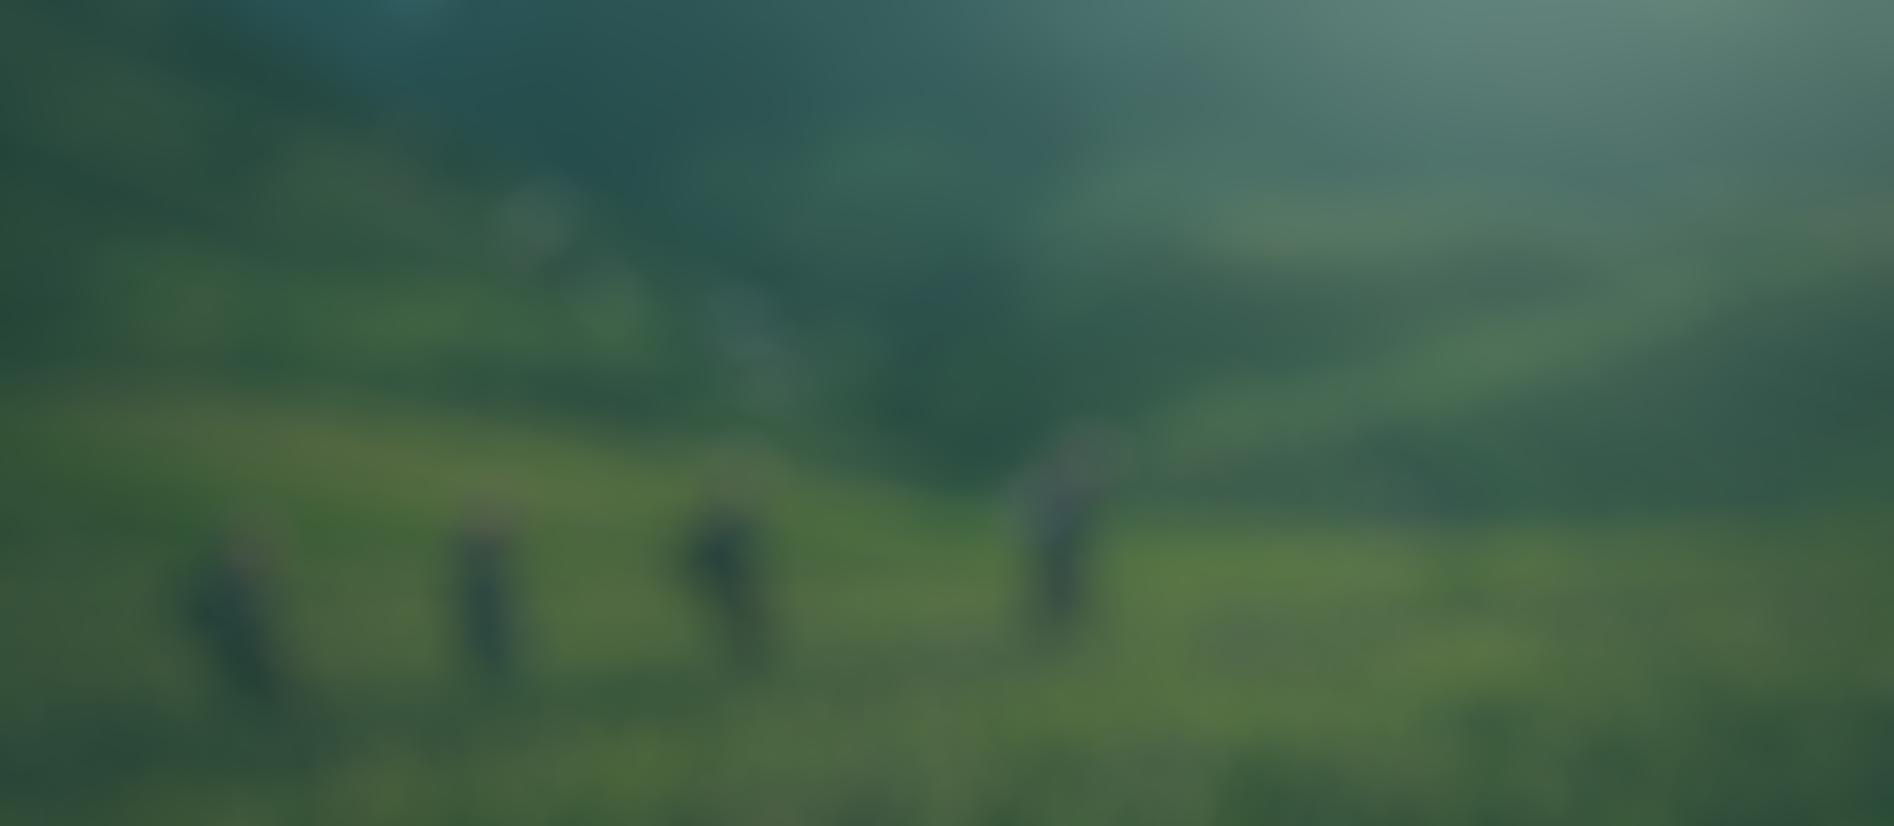
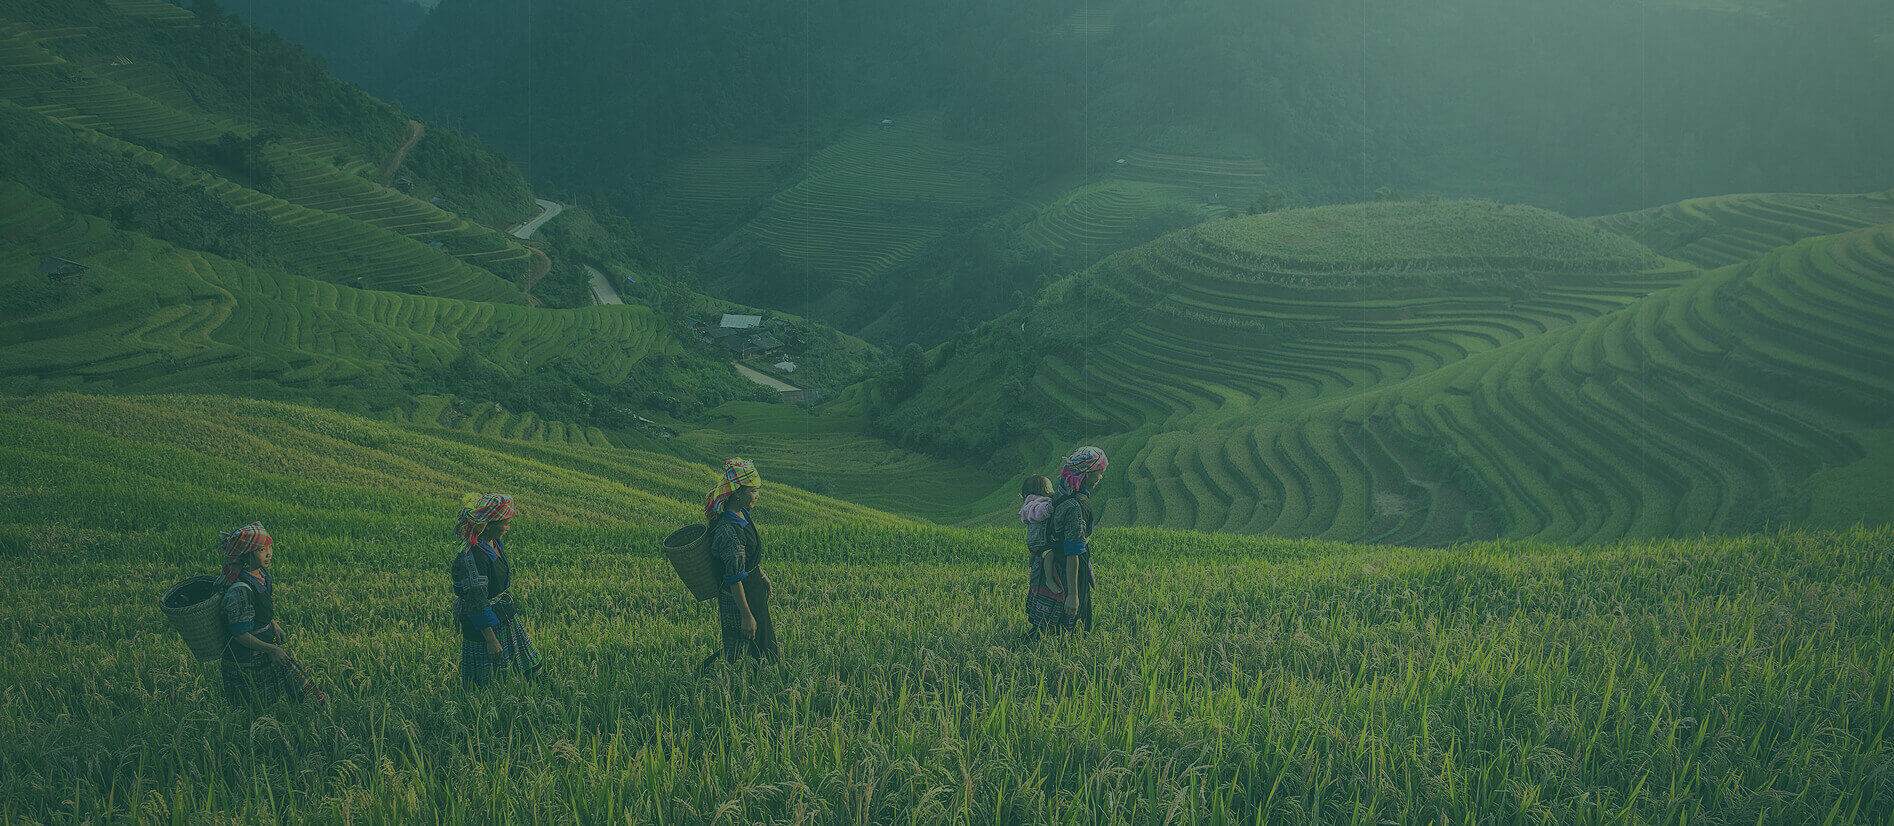
add images

diff --git a/index.html b/index.html
@@ -51,7 +51,7 @@
                         <p>Welcome to Agri Trust Collaborative Community</p>
                     </div><!-- /.topbar__left -->
                     <div class="topbar__right">
-                        <a href="#"><i class="agrikon-icon-email"></i>needhelp@company.com</a>
+                        <a href="#"><i class="agrikon-icon-email"></i>info@agritrustcoop.com</a>
                         <a href="#"><i class="agrikon-icon-clock"></i>Mon - Sat 8:00 - 6:30, Sunday - CLOSED</a>
                     </div><!-- /.topbar__right -->
                 </div><!-- /.container -->
@@ -110,7 +110,7 @@
     }'>
                 <div class="swiper-wrapper">
                     <div class="swiper-slide">
-                        <div class="image-layer" style="background-image: url(assets/images/main-slider/main-slider-1-1.jpg);">
+                        <div class="image-layer" style="background-image: url(assets/images/main-slider/main-slider-1-2.jpg);">
                         </div>
                         <!-- /.image-layer -->
                         <div class="container">
@@ -127,7 +127,7 @@
                         </div><!-- /.container -->
                     </div><!-- /.swiper-slide -->
                     <div class="swiper-slide">
-                        <div class="image-layer" style="background-image: url(assets/images/main-slider/main-slider-1-2.jpg);">
+                        <div class="image-layer" style="background-image: url(assets/images/main-slider/pruning.jpg);">
                         </div>
                         <!-- /.image-layer -->
                         <div class="container">
@@ -308,7 +308,7 @@
         </section><!-- /.service-two -->
 
         <section class="call-to-action__three jarallax" data-jarallax data-speed="0.3" data-imgPosition="50% 50%">
-            <img class="call-to-action__three__bg jarallax-img" src="assets/images/backgrounds/cta-1-bg-1.jpg" alt="parallax-image" />
+            <img class="call-to-action__three__bg jarallax-img" src="assets/images/backgrounds/field.jpg" alt="parallax-image" />
             <div class="container">
                 <div class="row">
                     <div class="col-lg-5 wow fadeInLeft" data-wow-duration="1500ms">
@@ -327,192 +327,7 @@
                 </div><!-- /.row -->
             </div><!-- /.container -->
         </section><!-- /.call-to-action__three -->
-
-        <section class="testimonials-one">
-            <img src="assets/images/icons/testimonials-bg-1-1.png" class="testimonials-one__bg" alt="">
-            <div class="container">
-                <h2 class="testimonials-one__title">Testimonials</h2>
-                <div id="testimonials-one__carousel" class="testimonials-one__carousel swiper-container">
-                    <div class="swiper-wrapper">
-                        <div class="swiper-slide">
-                            <div class="testimonials-one__icons">
-                                <i class="fas fa-star"></i>
-                                <i class="fas fa-star"></i>
-                                <i class="fas fa-star"></i>
-                                <i class="fas fa-star"></i>
-                                <i class="fas fa-star"></i>
-                            </div><!-- /.testimonials-one__icons -->
-                            <p>This is due to their excellent service, competitive pricing and customer support. It’s throughly
-                                refresing to get such a personal touch. Duis aute lorem ipsum is simply free text irure dolor in
-                                reprehenderit in esse nulla pariatur.</p>
-                        </div><!-- /.swiper-slide -->
-                        <div class="swiper-slide">
-                            <div class="testimonials-one__icons">
-                                <i class="fas fa-star"></i>
-                                <i class="fas fa-star"></i>
-                                <i class="fas fa-star"></i>
-                                <i class="fas fa-star"></i>
-                                <i class="fas fa-star"></i>
-                            </div><!-- /.testimonials-one__icons -->
-                            <p>This is due to their excellent service, competitive pricing and customer support. It’s throughly
-                                refresing to get such a personal touch. Duis aute lorem ipsum is simply free text irure dolor in
-                                reprehenderit in esse nulla pariatur.</p>
-                        </div><!-- /.swiper-slide -->
-                        <div class="swiper-slide">
-                            <div class="testimonials-one__icons">
-                                <i class="fas fa-star"></i>
-                                <i class="fas fa-star"></i>
-                                <i class="fas fa-star"></i>
-                                <i class="fas fa-star"></i>
-                                <i class="fas fa-star"></i>
-                            </div><!-- /.testimonials-one__icons -->
-                            <p>This is due to their excellent service, competitive pricing and customer support. It’s throughly
-                                refresing to get such a personal touch. Duis aute lorem ipsum is simply free text irure dolor in
-                                reprehenderit in esse nulla pariatur.</p>
-                        </div><!-- /.swiper-slide -->
-                    </div><!-- /.swiper-wrapper -->
-                </div><!-- /#testimonials-one__carousel -->
-
-                <div id="testimonials-one__thumb" class="swiper-container">
-                    <div class="swiper-wrapper">
-                        <div class="swiper-slide">
-                            <div class="testimonials-one__image">
-                                <img src="assets/images/resources/testimonials-1-1.jpg" alt="">
-                            </div><!-- /.testimonials-one__image -->
-                        </div><!-- /.swiper-slide -->
-                        <div class="swiper-slide">
-                            <div class="testimonials-one__image">
-                                <img src="assets/images/resources/testimonials-1-2.jpg" alt="">
-                            </div><!-- /.testimonials-one__image -->
-                        </div><!-- /.swiper-slide -->
-                        <div class="swiper-slide">
-                            <div class="testimonials-one__image">
-                                <img src="assets/images/resources/testimonials-1-3.jpg" alt="">
-                            </div><!-- /.testimonials-one__image -->
-                        </div><!-- /.swiper-slide -->
-                    </div><!-- /.swiper-wrapper -->
-                </div><!-- /#testimonials-one__thumb.swiper-container -->
-
-                <div id="testimonials-one__meta" class="testimonials-one__carousel swiper-container">
-                    <div class="swiper-wrapper">
-                        <div class="swiper-slide">
-                            <div class="testimonials-one__meta">
-                                <h4>Jessica Brown</h4>
-                                <span>Customer</span>
-                            </div><!-- /.testimonials-one__meta -->
-                        </div><!-- /.swiper-slide -->
-                        <div class="swiper-slide">
-                            <div class="testimonials-one__meta">
-                                <h4>Caleb Hoffman</h4>
-                                <span>Customer</span>
-                            </div><!-- /.testimonials-one__meta -->
-                        </div><!-- /.swiper-slide -->
-                        <div class="swiper-slide">
-                            <div class="testimonials-one__meta">
-                                <h4>Bradley Kim</h4>
-                                <span>Customer</span>
-                            </div><!-- /.testimonials-one__meta -->
-                        </div><!-- /.swiper-slide -->
-                    </div><!-- /.swiper-wrapper -->
-                </div><!-- /#testimonials-one__meta.swiper-container -->
-                <div class="swiper-pagination" id="testimonials-one__swiper-pagination"></div>
-            </div><!-- /.container -->
-        </section><!-- /.testimonials-one -->
-
-
-        <div class="client-carousel client-carousel__has-border-top">
-            <div class="container">
-                <div class="thm-swiper__slider swiper-container" data-swiper-options='{"spaceBetween": 140, "slidesPerView": 5, "autoplay": { "delay": 5000 }, "breakpoints": {
-                "0": {
-                    "spaceBetween": 30,
-                    "slidesPerView": 2
-                },
-                "375": {
-                    "spaceBetween": 30,
-                    "slidesPerView": 2
-                },
-                "575": {
-                    "spaceBetween": 30,
-                    "slidesPerView": 3
-                },
-                "767": {
-                    "spaceBetween": 50,
-                    "slidesPerView": 4
-                },
-                "991": {
-                    "spaceBetween": 50,
-                    "slidesPerView": 5
-                },
-                "1199": {
-                    "spaceBetween": 100,
-                    "slidesPerView": 5
-                }
-            }}'>
-                    <div class="swiper-wrapper">
-                        <div class="swiper-slide">
-                            <img src="assets/images/resources/brand-1-1.png" alt="">
-                        </div><!-- /.swiper-slide -->
-                        <div class="swiper-slide">
-                            <img src="assets/images/resources/brand-1-1.png" alt="">
-                        </div><!-- /.swiper-slide -->
-                        <div class="swiper-slide">
-                            <img src="assets/images/resources/brand-1-1.png" alt="">
-                        </div><!-- /.swiper-slide -->
-                        <div class="swiper-slide">
-                            <img src="assets/images/resources/brand-1-1.png" alt="">
-                        </div><!-- /.swiper-slide -->
-                        <div class="swiper-slide">
-                            <img src="assets/images/resources/brand-1-1.png" alt="">
-                        </div><!-- /.swiper-slide -->
-                        <div class="swiper-slide">
-                            <img src="assets/images/resources/brand-1-1.png" alt="">
-                        </div><!-- /.swiper-slide -->
-                        <div class="swiper-slide">
-                            <img src="assets/images/resources/brand-1-1.png" alt="">
-                        </div><!-- /.swiper-slide -->
-                        <div class="swiper-slide">
-                            <img src="assets/images/resources/brand-1-1.png" alt="">
-                        </div><!-- /.swiper-slide -->
-                        <div class="swiper-slide">
-                            <img src="assets/images/resources/brand-1-1.png" alt="">
-                        </div><!-- /.swiper-slide -->
-                        <div class="swiper-slide">
-                            <img src="assets/images/resources/brand-1-1.png" alt="">
-                        </div><!-- /.swiper-slide -->
-                        <div class="swiper-slide">
-                            <img src="assets/images/resources/brand-1-1.png" alt="">
-                        </div><!-- /.swiper-slide -->
-                        <div class="swiper-slide">
-                            <img src="assets/images/resources/brand-1-1.png" alt="">
-                        </div><!-- /.swiper-slide -->
-                        <div class="swiper-slide">
-                            <img src="assets/images/resources/brand-1-1.png" alt="">
-                        </div><!-- /.swiper-slide -->
-                        <div class="swiper-slide">
-                            <img src="assets/images/resources/brand-1-1.png" alt="">
-                        </div><!-- /.swiper-slide -->
-                        <div class="swiper-slide">
-                            <img src="assets/images/resources/brand-1-1.png" alt="">
-                        </div><!-- /.swiper-slide -->
-                        <div class="swiper-slide">
-                            <img src="assets/images/resources/brand-1-1.png" alt="">
-                        </div><!-- /.swiper-slide -->
-                        <div class="swiper-slide">
-                            <img src="assets/images/resources/brand-1-1.png" alt="">
-                        </div><!-- /.swiper-slide -->
-                        <div class="swiper-slide">
-                            <img src="assets/images/resources/brand-1-1.png" alt="">
-                        </div><!-- /.swiper-slide -->
-                        <div class="swiper-slide">
-                            <img src="assets/images/resources/brand-1-1.png" alt="">
-                        </div><!-- /.swiper-slide -->
-                        <div class="swiper-slide">
-                            <img src="assets/images/resources/brand-1-1.png" alt="">
-                        </div><!-- /.swiper-slide -->
-                    </div><!-- /.swiper-wrapper -->
-                </div><!-- /.thm-swiper__slider -->
-            </div><!-- /.container -->
-        </div><!-- /.client-carousel -->
+        
         <footer class="site-footer">
             <img src="assets/images/icons/footer-bg-icon-1.png" class="site-footer__shape-1" alt="">
             <img src="assets/images/icons/footer-bg-icon-2.png" class="site-footer__shape-2" alt="">

diff --git a/about.html b/about.html
@@ -95,7 +95,7 @@
             <div class="sticky-header__content"></div><!-- /.sticky-header__content -->
         </div><!-- /.stricky-header -->
         <section class="page-header">
-            <div class="page-header__bg" style="background-image: url(assets/images/backgrounds/page-header-bg-1-1.jpg);"></div>
+            <div class="page-header__bg" style="background-image: url(assets/images/backgrounds/field.jpg);"></div>
             <!-- /.page-header__bg -->
             <div class="container">
                 <ul class="thm-breadcrumb list-unstyled">
@@ -376,97 +376,6 @@
                 </div><!-- /.thm-swiper__slider -->
             </div><!-- /.team-one__carousel-wrap -->
         </section><!-- /.team-one -->
-
-        <section class="testimonials-one testimonials-one__about">
-            <img src="assets/images/icons/testimonials-bg-1-1.png" class="testimonials-one__bg" alt="">
-            <div class="container">
-                <h2 class="testimonials-one__title">Testimonials</h2>
-                <div id="testimonials-one__carousel" class="testimonials-one__carousel swiper-container">
-                    <div class="swiper-wrapper">
-                        <div class="swiper-slide">
-                            <div class="testimonials-one__icons">
-                                <i class="fas fa-star"></i>
-                                <i class="fas fa-star"></i>
-                                <i class="fas fa-star"></i>
-                                <i class="fas fa-star"></i>
-                                <i class="fas fa-star"></i>
-                            </div><!-- /.testimonials-one__icons -->
-                            <p>This is due to their excellent service, competitive pricing and customer support. It’s throughly
-                                refresing to get such a personal touch. Duis aute lorem ipsum is simply free text irure dolor in
-                                reprehenderit in esse nulla pariatur.</p>
-                        </div><!-- /.swiper-slide -->
-                        <div class="swiper-slide">
-                            <div class="testimonials-one__icons">
-                                <i class="fas fa-star"></i>
-                                <i class="fas fa-star"></i>
-                                <i class="fas fa-star"></i>
-                                <i class="fas fa-star"></i>
-                                <i class="fas fa-star"></i>
-                            </div><!-- /.testimonials-one__icons -->
-                            <p>This is due to their excellent service, competitive pricing and customer support. It’s throughly
-                                refresing to get such a personal touch. Duis aute lorem ipsum is simply free text irure dolor in
-                                reprehenderit in esse nulla pariatur.</p>
-                        </div><!-- /.swiper-slide -->
-                        <div class="swiper-slide">
-                            <div class="testimonials-one__icons">
-                                <i class="fas fa-star"></i>
-                                <i class="fas fa-star"></i>
-                                <i class="fas fa-star"></i>
-                                <i class="fas fa-star"></i>
-                                <i class="fas fa-star"></i>
-                            </div><!-- /.testimonials-one__icons -->
-                            <p>This is due to their excellent service, competitive pricing and customer support. It’s throughly
-                                refresing to get such a personal touch. Duis aute lorem ipsum is simply free text irure dolor in
-                                reprehenderit in esse nulla pariatur.</p>
-                        </div><!-- /.swiper-slide -->
-                    </div><!-- /.swiper-wrapper -->
-                </div><!-- /#testimonials-one__carousel -->
-
-                <div id="testimonials-one__thumb" class="swiper-container">
-                    <div class="swiper-wrapper">
-                        <div class="swiper-slide">
-                            <div class="testimonials-one__image">
-                                <img src="assets/images/resources/testimonials-1-1.jpg" alt="">
-                            </div><!-- /.testimonials-one__image -->
-                        </div><!-- /.swiper-slide -->
-                        <div class="swiper-slide">
-                            <div class="testimonials-one__image">
-                                <img src="assets/images/resources/testimonials-1-2.jpg" alt="">
-                            </div><!-- /.testimonials-one__image -->
-                        </div><!-- /.swiper-slide -->
-                        <div class="swiper-slide">
-                            <div class="testimonials-one__image">
-                                <img src="assets/images/resources/testimonials-1-3.jpg" alt="">
-                            </div><!-- /.testimonials-one__image -->
-                        </div><!-- /.swiper-slide -->
-                    </div><!-- /.swiper-wrapper -->
-                </div><!-- /#testimonials-one__thumb.swiper-container -->
-
-                <div id="testimonials-one__meta" class="testimonials-one__carousel swiper-container">
-                    <div class="swiper-wrapper">
-                        <div class="swiper-slide">
-                            <div class="testimonials-one__meta">
-                                <h4>Jessica Brown</h4>
-                                <span>Customer</span>
-                            </div><!-- /.testimonials-one__meta -->
-                        </div><!-- /.swiper-slide -->
-                        <div class="swiper-slide">
-                            <div class="testimonials-one__meta">
-                                <h4>Caleb Hoffman</h4>
-                                <span>Customer</span>
-                            </div><!-- /.testimonials-one__meta -->
-                        </div><!-- /.swiper-slide -->
-                        <div class="swiper-slide">
-                            <div class="testimonials-one__meta">
-                                <h4>Bradley Kim</h4>
-                                <span>Customer</span>
-                            </div><!-- /.testimonials-one__meta -->
-                        </div><!-- /.swiper-slide -->
-                    </div><!-- /.swiper-wrapper -->
-                </div><!-- /#testimonials-one__meta.swiper-container -->
-                <div class="swiper-pagination" id="testimonials-one__swiper-pagination"></div>
-            </div><!-- /.container -->
-        </section><!-- /.testimonials-one -->
 
         <section class="about-three">
             <div class="container">
